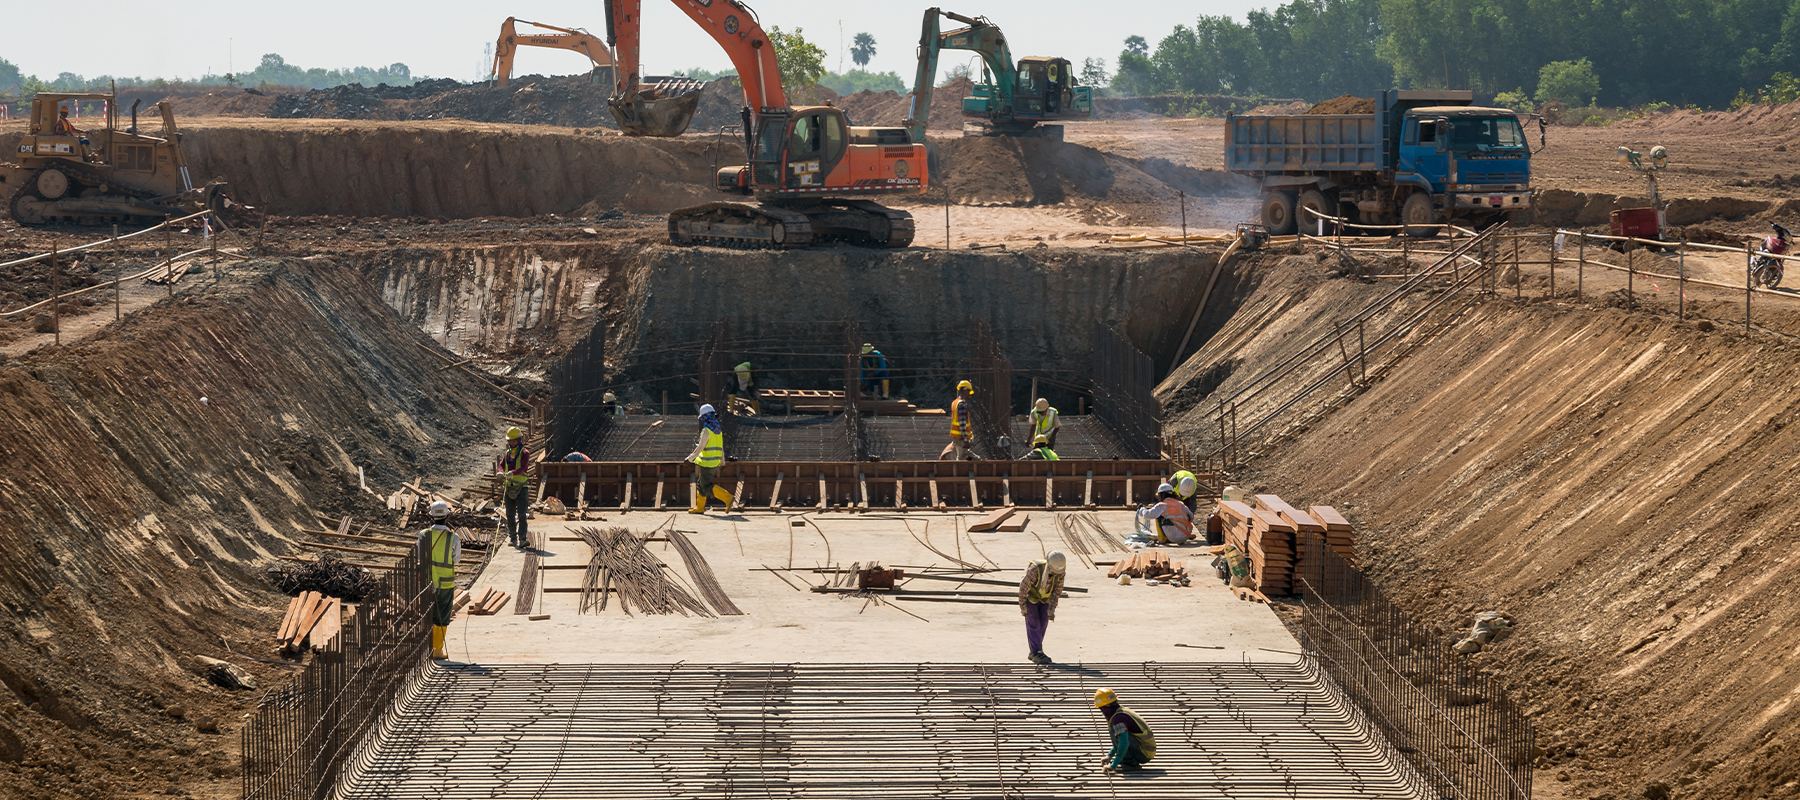
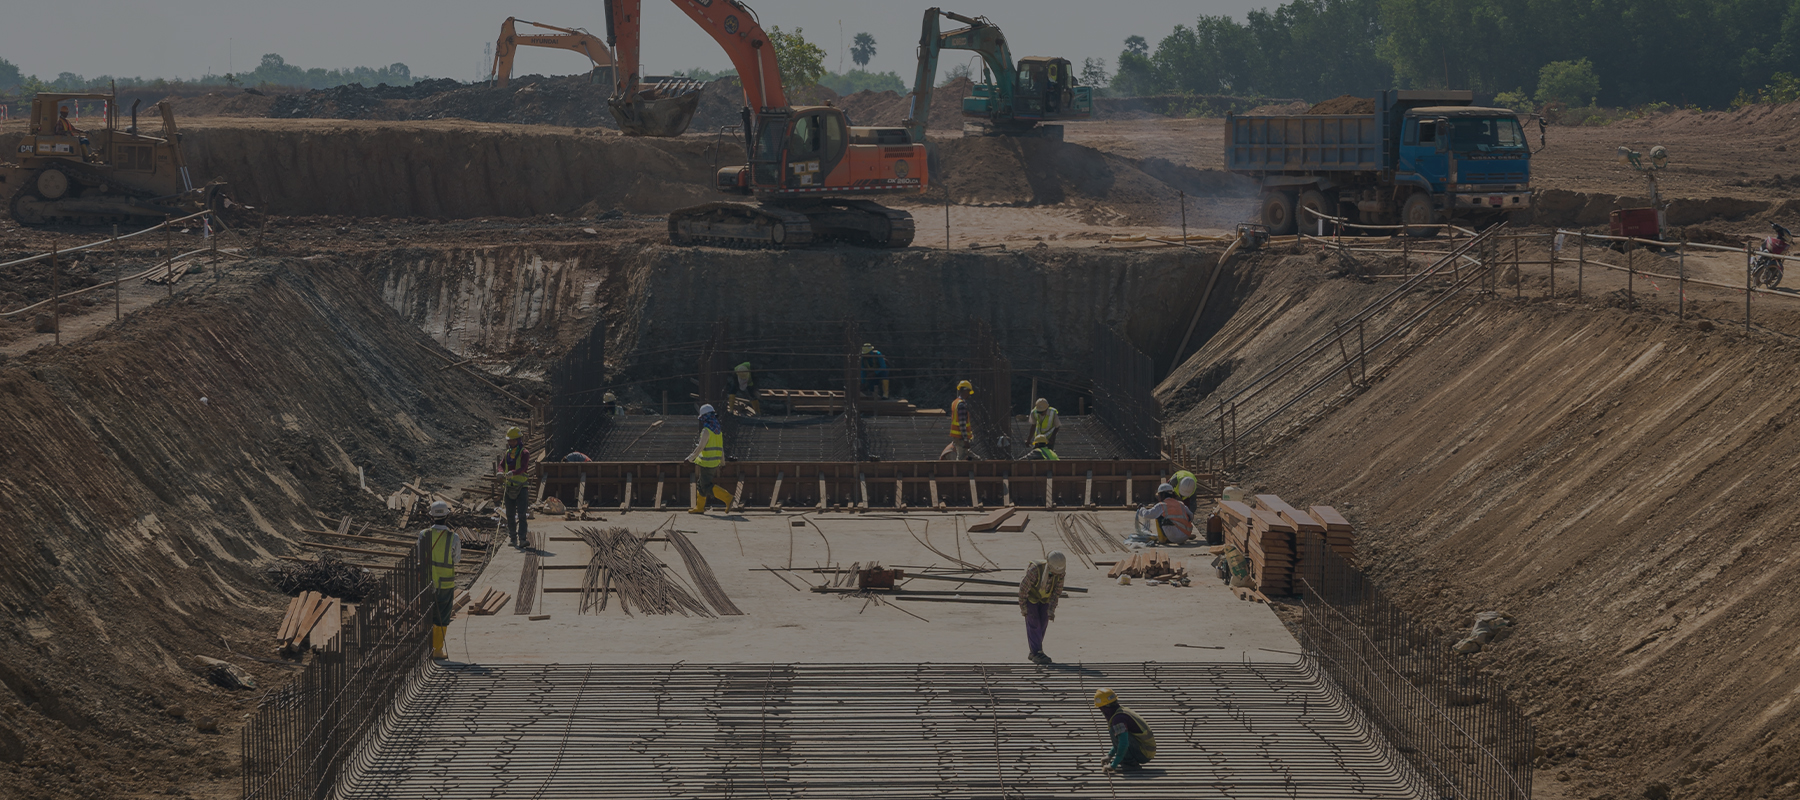
ultimas modificaciones del header

diff --git a/assets/css/style.css b/assets/css/style.css
@@ -11094,6 +11094,7 @@ pre {
 
 .navbar .nav-link {
   font-weight: 700;
+  font-size: 1.2rem;
 }
 
 .navbar .nav-link.active {
@@ -11217,10 +11218,10 @@ pre {
 }
 
 .header-title {
-  font-size: 2.4rem;
+  font-size: 3rem;
   font-weight: bold;
-  opacity: .8;
-  color: #343a40;
+  text-transform: uppercase;
+  color: #fff;
 }
 
 .header-mini {
